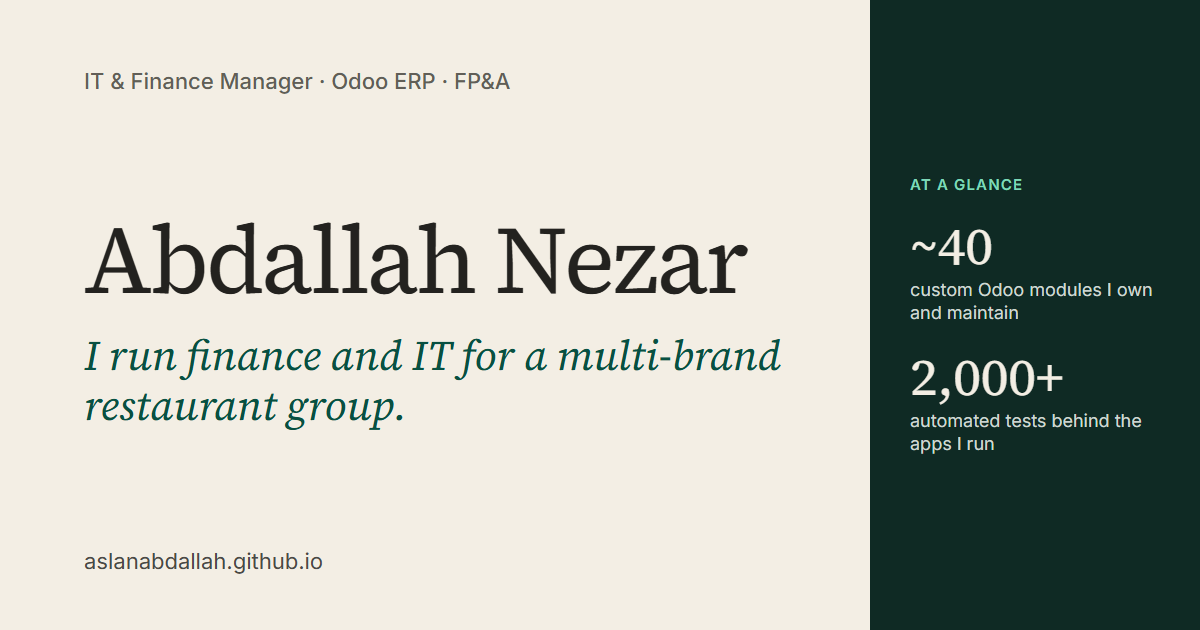
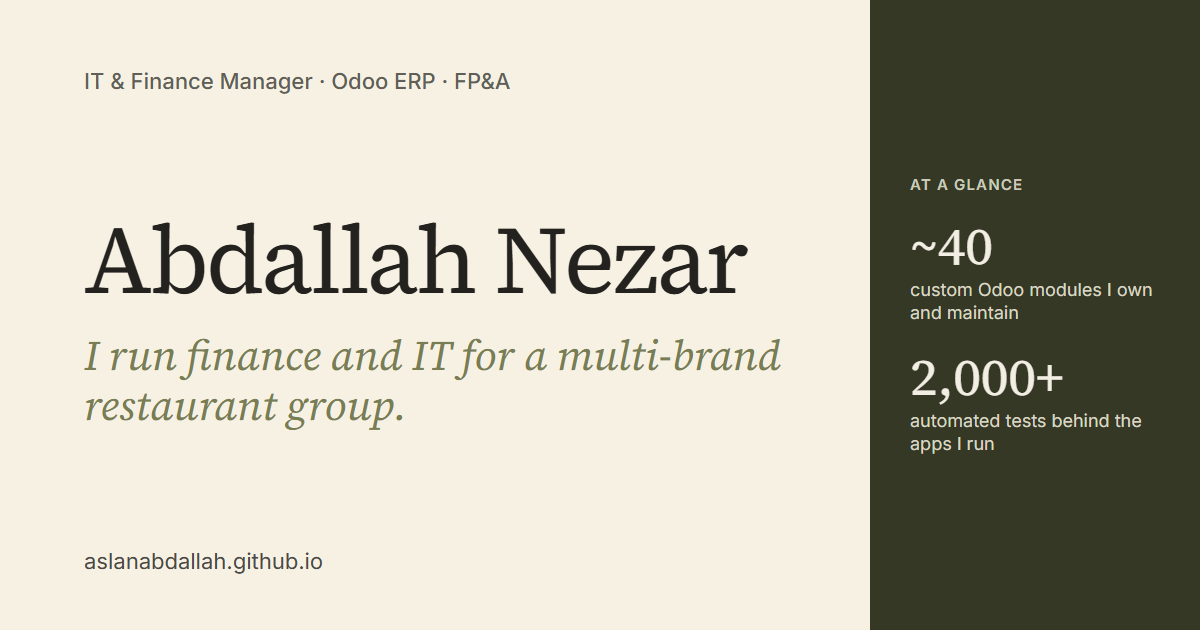
Feature a case study in the hero and switch to the olive colours
- Replace the "At a glance" panel with the till-speed case study,
  chosen by one setting (featuredCase) in profile.ts
- Move the four numbers into a strip below the hero
- New colours: cream background, olive #787d54 for the headline,
  a deeper olive for small text, dark olive panels
- Regenerate the favicon and the share image in the new colours

Changed region(s): [[0.7092, 0.0, 1.0, 1.0], [0.0617, 0.5429, 0.6475, 0.6032], [0.0617, 0.6333, 0.3392, 0.6937]]

diff --git a/src/styles/global.css b/src/styles/global.css
@@ -1,23 +1,25 @@
 /* Design tokens — change the look of the whole site from here. */
 :root {
-  --paper: #f3eee4;
-  --paper-raised: #fbf8f2;
-  --paper-sunk: #ebe4d6;
+  --paper: #f7f1e3;
+  --paper-raised: #fcf8ef;
+  --paper-sunk: #eee6d3;
   --ink: #23221f;
   --ink-2: #4a4945;
   --ink-3: #615e57;
   --rule: #d8d0bf;
   --rule-strong: #b9b09c;
-  --accent: #085041;
-  --accent-hover: #0f6e56;
-  --accent-tint: #dcebe3;
+  --accent: #666a47;
+  /* The main colour as chosen. Large text and decoration only: too faint for small text. */
+  --accent-large: #787d54;
+  --accent-hover: #4f5336;
+  --accent-tint: #ecebdc;
   --highlight: #f6e7c8;
   --highlight-ink: #5c3a08;
 
   /* Deep green used for the full-width bands. */
-  --forest: #0f2a24;
-  --forest-raised: #163a32;
-  --forest-deep: #0a1f1a;
+  --forest: #363826;
+  --forest-raised: #41442e;
+  --forest-deep: #2b2d1e;
 
   --serif: var(--font-serif), Georgia, serif;
   --sans: var(--font-sans), system-ui, sans-serif;
@@ -126,21 +128,21 @@ img {
   --paper-raised: var(--forest-raised);
   --paper-sunk: var(--forest-deep);
   --ink: #f3eee4;
-  --ink-2: #cfd9d3;
-  --ink-3: #a7b8b0;
+  --ink-2: #d9d8c4;
+  --ink-3: #b3b39c;
   --rule: rgba(243, 238, 228, 0.16);
   --rule-strong: rgba(243, 238, 228, 0.34);
-  --accent: #7fd8b8;
-  --accent-hover: #a9e7d0;
-  --accent-tint: rgba(127, 216, 184, 0.14);
+  --accent: #c9cbbb;
+  --accent-hover: #dfe0d3;
+  --accent-tint: rgba(201, 203, 187, 0.14);
   background: var(--paper);
   color: var(--ink);
   border-top: 0;
 }
 
 .band ::selection {
-  background: #7fd8b8;
-  color: #0f2a24;
+  background: #c9cbbb;
+  color: #363826;
 }
 
 /* A slightly darker paper panel used to group content inside a light section. */

diff --git a/src/data/profile.ts b/src/data/profile.ts
@@ -38,7 +38,8 @@ export const profile: Profile = {
     { value: '2,000+', label: 'automated tests behind the apps I run' },
     { value: '~40', label: 'custom Odoo modules I own and maintain' },
   ],
-  glanceFoot: 'Daily management P&L · Odoo 18 Enterprise · Amman, Jordan',
+  // The case study shown beside the name on the home page (its slug).
+  featuredCase: 'till-speed',
 
   // ── Home page ──────────────────────────────────────────────────────────────
   home: {

diff --git a/src/data/types.ts b/src/data/types.ts
@@ -102,7 +102,8 @@ export interface Profile {
   cvUrl?: string;
   seo: { title: string; description: string };
   stats: Stat[];
-  glanceFoot: string;
+  /** Slug of the case study shown beside the name on the home page. */
+  featuredCase: string;
 
   home: {
     about: PageText;
